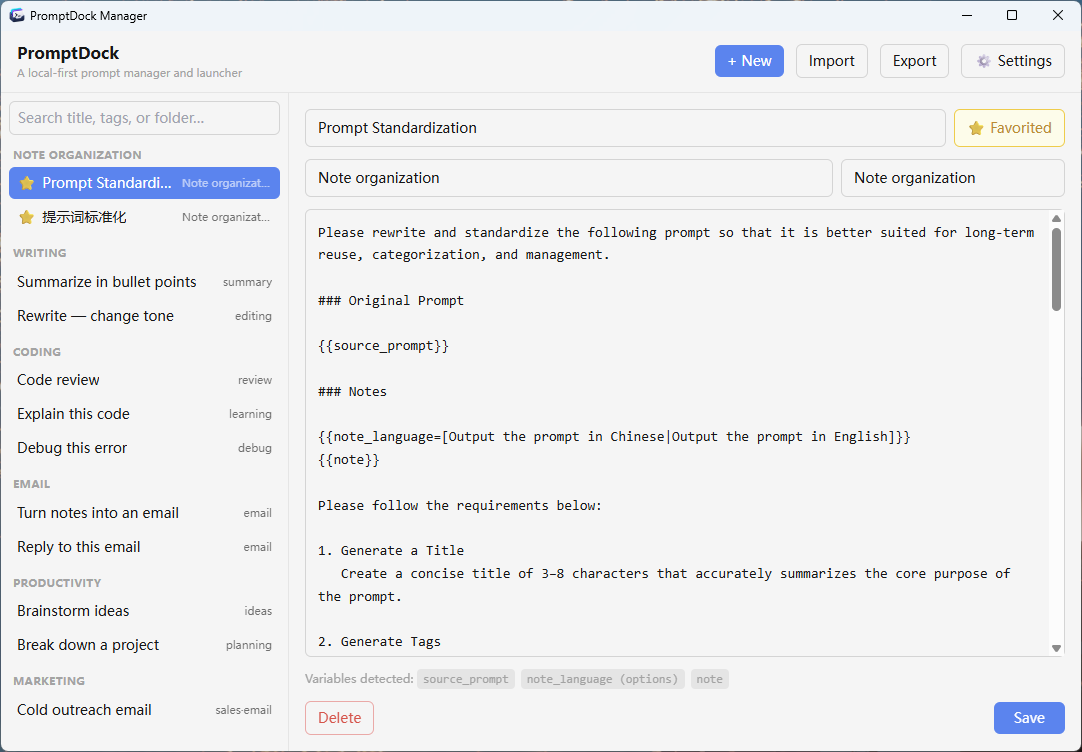
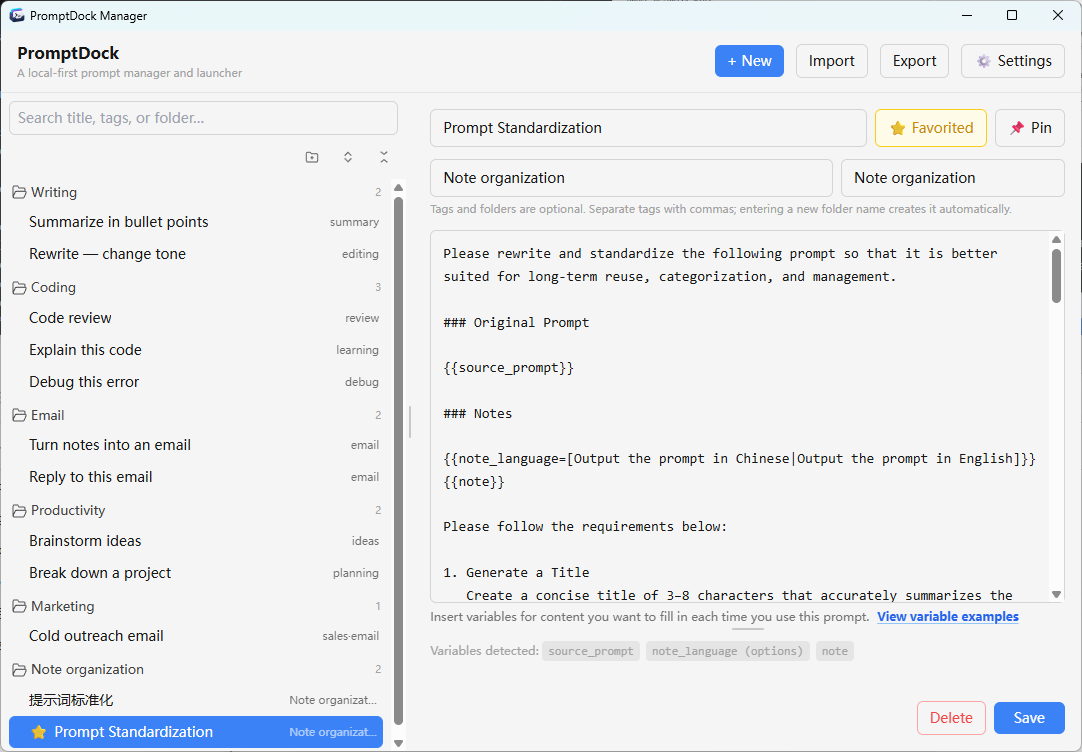
更新readme

diff --git a/README.md b/README.md
@@ -36,7 +36,7 @@ PromptDock keeps reusable prompts one shortcut away. Organize prompts locally, s
 - **Local storage** — No account, cloud service, or remote database is required.
 - **Import and export** — Import a single JSON file with the manager's Import button or by dropping it onto the manager, and export JSON.
 
-## Installation
+## Installation and usage
 
 ### System requirements
 
@@ -94,9 +94,19 @@ Open the manager from the tray menu to create, edit, and delete prompts, and org
 
 Click **New** to add a prompt: enter a title and content, optionally set tags, a folder, and favorite status, and use variable syntax in the content.
 
-![Manager: creating a prompt](README_attachment/en/manager-create-en.png)
+### 4. Prompt import
 
-#### Variable syntax
+You can directly drag in a JSON file to import prompts.
+
+![Manager: prompt import](README_attachment/en/import-prompt-en.png)
+
+### 5. Settings
+
+The global shortcut, theme (light/dark), interface language, launch-at-startup behavior, and app updates can all be adjusted in the settings view.
+
+![Settings](README_attachment/en/settings-en.png)
+
+## Variable syntax
 
 Declare variables in the prompt content with double curly braces `{{ }}`; the launcher renders a form for them when the prompt is used:
 
@@ -105,19 +115,9 @@ Declare variables in the prompt content with double curly braces `{{ }}`; the la
 - **Single choice** — `{{note_language=[answer in Chinese|answer in English]}}`: candidates are separated by `|` inside the brackets and picked from a dropdown.
 - **Multi-select** — `{{tone+=[formal|polite|friendly]}}`: pick multiple values via checkboxes; selected values are joined by `, ` by default, and you can use `~` to choose a custom separator (supports `\n` and `\t` escapes), e.g. `{{lines+=[a|b|c]~\n}}` puts each value on its own line.
 
-#### Write prompts faster with Prompt Standardization
+### Write prompts faster with Prompt Standardization
 
-PromptDock ships with a built-in template named **Prompt Standardization**. If you are not familiar with the variable syntax yet, use it: paste one of your everyday prompts, send it to the AI, and it will be rewritten into a well-formed prompt that follows PromptDock's variable syntax. Save the result as a new prompt and you are done.
-
-### 4. Settings
-
-The global shortcut, theme (light/dark), interface language, launch-at-startup behavior, and app updates can all be adjusted in the settings view.
-
-![Settings](README_attachment/en/settings-en.png)
-
-## Improve prompts with AI
-
-If you already have prompts that you use regularly, you can refine them with the built-in **提示词标准化 (Prompt Standardization)** template:
+PromptDock ships with a built-in template named **提示词标准化 (Prompt Standardization)**. Paste one of your everyday prompts into it and send it to an AI assistant. The assistant will rewrite it into a well-formed prompt that follows PromptDock's variable syntax. Save the result as a new prompt.
 
 1. Open **提示词标准化 (Prompt Standardization)** and enter the original prompt you want to improve.
 2. Ask an AI assistant to rewrite it into a clearer, more consistent prompt based on your requirements.

diff --git a/README_CN.md b/README_CN.md
@@ -95,9 +95,20 @@ PromptDock 会继续在系统托盘中运行。关闭管理器窗口不会退出
 
 点击**新建**即可添加 Prompt：填写标题和内容，按需设置标签、文件夹、收藏状态，并在内容中使用变量语法。
 
-![管理器：新建 Prompt](README_attachment/zh/manager-create-zh.png)
+### 4. Prompt 导入
 
-#### 变量语法
+可以直接拖入json文件进行提示词的导入
+![管理器：Prompt 导入](README_attachment/zh/import-pronot-zh.png)
+
+
+### 5. 设置
+
+全局快捷键、主题（亮/暗）、界面语言、开机启动和软件更新等选项都可以在设置界面中调整。
+
+![设置界面](README_attachment/zh/settings-zh.png)
+
+
+## 变量语法
 
 在 Prompt 内容中用双大括号 `{{ }}` 声明变量，调用时即可在弹出的表单中填充：
 
@@ -106,19 +117,9 @@ PromptDock 会继续在系统托盘中运行。关闭管理器窗口不会退出
 - **可选值**：`{{note_language=[提示词用中文输出|提示词用英文输出]}}`，方括号内用 `|` 分隔候选值，调用时从下拉选项中选择。
 - **多选值**：`{{tone+=[正式|客气|友好]}}`，调用时以复选框勾选多个值，勾选的值默认用 `, ` 连接；也可以用 `~` 指定连接符（支持 `\n`、`\t` 转义），例如 `{{lines+=[a|b|c]~\n}}` 会把每个值单独一行拼接。
 
-#### 用“提示词标准化”快速编写
+### 用“提示词标准化”快速编写
 
 软件安装后默认自带一条名为**提示词标准化**的 Prompt。你可以直接使用它，把你自己常用的提示词填进去发给 AI，AI 会将其改写为符合 PromptDock 变量语法要求的规范提示词，再把结果保存为新 Prompt 即可。
-
-### 4. 设置
-
-全局快捷键、主题（亮/暗）、界面语言、开机启动和软件更新等选项都可以在设置界面中调整。
-
-![设置界面](README_attachment/zh/settings-zh.png)
-
-## 使用 AI 优化提示词
-
-如果已有常用提示词，可以使用软件内置的 “提示词标准化” 进行优化：
 
 1. 打开 “提示词标准化”，输入需要优化的原始提示词。
 2. 让 AI 根据要求生成更加清晰、规范的提示词。
